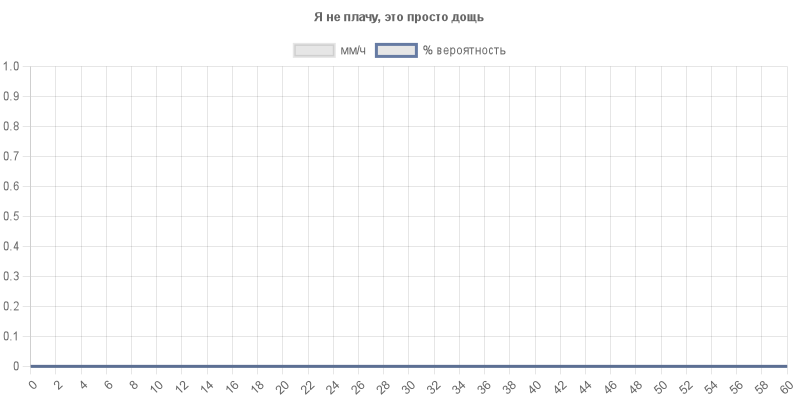
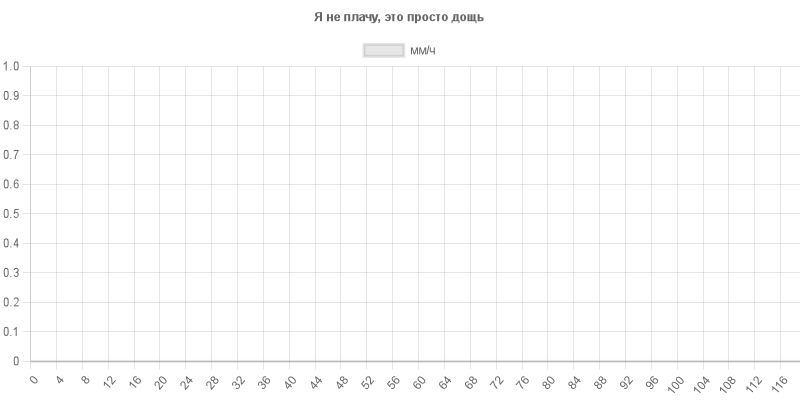
minutecast chart

diff --git a/jisao-functions.js b/jisao-functions.js
@@ -31,6 +31,31 @@ class APILimits {
   }
 }
 
+//datatype for minute forecasts
+class Jisao {
+  constructor(
+    summaryPrecipitation = "",
+    isPrecipitation = true,
+    minuteSummary = [],
+    precipAccuArr = [],
+    forecast12hr = [],
+    precipIntensity = [],
+    precipType = [],
+    averagePrecip = 0,
+    error = { status: false, description: "" }
+  ) {
+    this.summaryPrecipitation = summaryPrecipitation;
+    this.isPrecipitation = isPrecipitation;
+    this.minuteSummary = minuteSummary;
+    this.precipAccuArr = precipAccuArr;
+    this.forecast12hr = forecast12hr;
+    this.precipIntensity = precipIntensity;
+    this.precipType = precipType;
+    this.averagePrecip = averagePrecip;
+    this.error = error;
+  }
+}
+
 let jisaoBot;
 function setBotObject(botObject) {
   jisaoBot = botObject;
@@ -107,16 +132,6 @@ function create1hrForecastObject(
   return forecast1hr;
 }
 
-//datatype for minute forecasts
-function createMinuteObj() {
-  const jisaoMinute = {
-    summaryPrecipitation: "",
-    minuteSummary: [],
-    forecast12hr: [],
-    error: { status: false, description: "" },
-  };
-}
-
 //reads limits from local file, or returns a default object if there is none
 function getLimits() {
   const limits = new APILimits();
@@ -189,7 +204,7 @@ function getMinuteDescription(userData, minuteReply) {
     const hour2 = minuteReply.forecast12hr[1];
 
     let precipString = "подробностей не дали";
-    if (minuteReply.minuteSummary.length > 0) {
+    /* if (minuteReply.minuteSummary.length > 0) {
       let precipArr = Array(12).fill(minuteReply.minuteSummary[0].type);
 
       //filling 10-minutes blocks with precipitation types
@@ -202,11 +217,14 @@ function getMinuteDescription(userData, minuteReply) {
         }
       }
       precipString = precipArr.join("");
-    }
+    } */
 
+    precipString = minuteReply.precipAccuArr.join("");
+
+    //emoji line ${precipString}\n is replaced with charts
     forecast2hr = `В ${
       userData.locationName
-    } ${minuteReply.summaryPrecipitation.toLowerCase()}\n${precipString}\n\n`;
+    } ${minuteReply.summaryPrecipitation.toLowerCase()}\n\n`;
     forecast2hr += `В этом часу\n🌡 ${hour1.temperature}°C, ощущается как ${hour1.realfeel}°C\n`;
     forecast2hr += `💨 ветер ${hour1.wind}м/с c порывами до ${hour1.windgust}м/с`;
     forecast2hr +=
@@ -309,14 +327,29 @@ async function getForecast2hr(userID) {
 
       if (forecastMinute.Summary.Phrase) {
         jisaoMinute.summaryPrecipitation = forecastMinute.Summary.Phrase;
+        //getting line of emojis 🌂🌂🌂💧💧💧💧🌂🌂🌂🌂🌂.
+        //It's turned off by now in getMinuteDescription and replaced with charts and digital types
         if (forecastMinute.Summaries.length > 0) {
           for (let sum of forecastMinute.Summaries) {
-            const type = getMinuteEmoji(sum.TypeId);
+            //const type = getMinuteEmoji(sum.TypeId); <-------
+            const type = sum.TypeId === null ? 0 : sum.TypeId;
             jisaoMinute.minuteSummary.push({
               startMinute: sum.StartMinute,
               type: type,
             });
           }
+        }
+        if (jisaoMinute.minuteSummary.length > 0) {
+          let precipArr = Array(120).fill(jisaoMinute.minuteSummary[0].type);
+
+          //filling 10-minutes blocks with precipitation types
+          for (let i = 1; i < jisaoMinute.minuteSummary.length; i++) {
+            let minutesNext = jisaoMinute.minuteSummary[i].startMinute;
+            for (let j = minutesNext; j < precipArr.length; j++) {
+              precipArr[j] = jisaoMinute.minuteSummary[i].type;
+            }
+          }
+          jisaoMinute.precipAccuArr = precipArr;
         }
       } else {
         jisaoMinute.error.status = true;
@@ -561,7 +594,7 @@ async function getChart(filename, inputData = {}) {
       {
         type: "line",
         label: "мм/ч",
-        data: inputData.precipIntensity60,
+        data: inputData.precipIntensity,
         fill: {
           target: "origin",
           above: "rgb(134, 162, 214)", // Area will be red above the origin
@@ -570,7 +603,7 @@ async function getChart(filename, inputData = {}) {
         tension: 0.1,
         pointRadius: 0,
       },
-      {
+      /* {
         type: "line",
         label: "% вероятность",
         data: inputData.precipProbability60,
@@ -578,7 +611,7 @@ async function getChart(filename, inputData = {}) {
         borderColor: "rgb(102, 123, 163)",
         tension: 0.1,
         pointRadius: 0,
-      },
+      }, */
     ],
   };
 
@@ -608,15 +641,11 @@ async function getChart(filename, inputData = {}) {
 async function getPirateForecast2hr(userID) {
   const userData = getUser(userID);
 
-  const jisaoMinute = {
-    summaryPrecipitation: "чот пошло не так",
-    minuteSummary: [],
-    forecast12hr: [],
-    error: { status: false, description: "" },
-  };
+  const jisaoMinute = new Jisao();
 
   if (!userData) {
-    jisaoMinute.summaryPrecipitation = `user ${userID} doesn't exist`;
+    jisaoMinute.error.description = `user ${userID} doesn't exist`;
+    jisaoMinute.error.status = true;
     return jisaoMinute;
   }
 
@@ -631,9 +660,11 @@ async function getPirateForecast2hr(userID) {
   let data = { precipIntensity60: [], precipProbability60: [], minutes: [] };
   try {
     if (isLimitPirateReached) {
-      jisaoMinute.summaryPrecipitation = `лимит пиратских запросов тогось, будем плотить?`;
-    } else { //hardcoded location for now
-      const pirateQuery = `https://api.pirateweather.net/forecast/${pirateWeatherKey}/48.137154,11.576124?units=si&exclude=[daily,alerts]`;
+      jisaoMinute.error.description = `лимит пиратских запросов тогось, будем плотить?`;
+      jisaoMinute.error.status = true;
+    } else {
+      //hardcoded location for now
+      const pirateQuery = `https://api.pirateweather.net/forecast/${pirateWeatherKey}/${userData.location.latitude},${userData.location.longitude}?units=si&exclude=[daily,alerts]`;
       const res = await fetch(pirateQuery);
       const response = await res.json();
 
@@ -645,18 +676,30 @@ async function getPirateForecast2hr(userID) {
 
       setLimits(limits);
 
-      jisaoMinute.summaryPrecipitation = response.minutely.summary;
+      //jisaoMinute.summaryPrecipitation = response.minutely.summary;
       data = response.minutely.data.reduce(
         (acc, item, ind) => {
           acc.precipIntensity60.push(item.precipIntensity);
           acc.precipProbability60.push(item.precipProbability);
+          acc.precipType60.push(item.precipType); //rain, snow or sleet; otherwise none
           acc.minutes.push(ind);
           return acc;
         },
-        { precipIntensity60: [], precipProbability60: [], minutes: [] }
+        {
+          precipIntensity60: [],
+          precipProbability60: [],
+          minutes: [],
+          precipType60: [],
+        }
       );
-      console.log(JSON.stringify(data));
-      await getChart(`chart.png`, data);
+      //console.log(JSON.stringify(data));
+
+      jisaoMinute.precipIntensity = data.precipIntensity60;
+      jisaoMinute.precipType = data.precipType60;
+
+      jisaoMinute.averagePrecip =
+        data.precipIntensity60.reduce((acc, item) => (acc += item), 0) /
+        data.precipIntensity60.length;
     }
   } catch (err) {
     console.log(err);

diff --git a/jisao-bot.js b/jisao-bot.js
@@ -122,6 +122,13 @@ jisaoBot.command("weather2hr", async (ctx) => {
       throw new Error(minuteReply.error.description);
     }
 
+    const { precipIntensity, precipType, averagePrecip } =
+      await getPirateForecast2hr(userID);
+
+    minuteReply.precipIntensity = precipIntensity;
+    minuteReply.precipType = precipType;
+    minuteReply.averagePrecip = averagePrecip;
+
     let userData;
     if (!localStorage.getItem(`${userID}`)) {
       console.log(`weather2hr: user ${userID} doesn't exist`);
@@ -135,7 +142,62 @@ jisaoBot.command("weather2hr", async (ctx) => {
 
     let forecast2hr = getMinuteDescription(userData, minuteReply);
 
-    await ctx.reply(forecast2hr);
+    //await ctx.reply(forecast2hr);
+
+    //forging data
+    //get 120 min from accuweather for rain(true\false), and extend 60 min of pirate(mm\hr) with average
+    let data = { precipIntensity: [], minutes: [] };
+    data.precipIntensity = minuteReply.precipIntensity;
+    data.minutes = new Array(120).fill(0).reduce((acc, item, ind) => {
+      acc.push(ind);
+      if (data.precipIntensity[ind] === undefined) {
+        data.precipIntensity.push(minuteReply.forecast12hr[1].rain);
+      }
+      return acc;
+    }, []);
+
+    console.log(`accuweather: ${minuteReply.precipAccuArr}`);
+    console.log(`pirate precipIntensity: ${data.precipIntensity}`);
+    console.log(
+      `forecast12hr[0]: ${JSON.stringify(minuteReply.forecast12hr[0])}`
+    );
+    console.log(
+      `forecast12hr[1]: ${JSON.stringify(minuteReply.forecast12hr[1])}`
+    );
+    //filtering out pirate weather minute values, based on accuweather 0\1\..
+    for (let i = 0; i < data.precipIntensity.length; i++) {
+      if (minuteReply.precipAccuArr[i]) {
+        if (data.precipIntensity[i] === 0) {
+          let hour = Math.floor(i / 60);
+          console.log(`hour: ${hour}`);
+          if (!minuteReply.forecast12hr[hour].rain) {
+            data.precipIntensity[i] = minuteReply.averagePrecip;
+          } else {
+            data.precipIntensity[i] = minuteReply.forecast12hr[hour].rain;
+          }
+        }
+      } else {
+        data.precipIntensity[i] = 0;
+      }
+    }
+    console.log(`finally: ${data.precipIntensity}`);
+
+    if (minuteReply.averagePrecip > -0.02) {
+      await getChart(`minute.png`, data);
+      const chartFilename = `temp-images/minute.png`;
+
+      fs.access(chartFilename, fs.constants.F_OK, async (err) => {
+        if (err) {
+          console.error(`${filePath} does not exist`);
+          ctx.reply(`график тогось`);
+        } else {
+          await ctx.replyWithPhoto(
+            { source: chartFilename },
+            { caption: forecast2hr }
+          );
+        }
+      });
+    }
     /* //post limits as well
     await ctx.reply(
       `||limit: ${minuteReply.limitMinute.limitRemain}/${minuteReply.limitMinute.limitTotal}||`,
@@ -260,7 +322,7 @@ jisaoBot.on(message("location"), async (ctx) => {
 });
 
 //reacts on text
-jisaoBot.on(message(`text`), async (ctx) => {
+/* jisaoBot.on(message(`text`), async (ctx) => {
   await ctx.reply(
     `ctx.from.id: ${ctx.from.id}, chat:${ctx.chat.id},\nctx: ${JSON.stringify(
       ctx.update,
@@ -272,15 +334,17 @@ jisaoBot.on(message(`text`), async (ctx) => {
   ctx.reply(jisMin.summaryPrecipitation);
 
   const chartFilename = `temp-images/chart.png`;
-  fs.access(chartFilename, fs.constants.F_OK, async (err) => {
-    if (err) {
-      console.error(`${filePath} does not exist`);
-      ctx.reply(`график тогось`);
-    } else {
-      await ctx.replyWithPhoto({ source: chartFilename });
-    }
-  });
-});
+  if (jisMin.isPrecipitation) {
+    fs.access(chartFilename, fs.constants.F_OK, async (err) => {
+      if (err) {
+        console.error(`${filePath} does not exist`);
+        ctx.reply(`график тогось`);
+      } else {
+        await ctx.replyWithPhoto({ source: chartFilename });
+      }
+    });
+  }
+}); */
 
 //---------------CRON-----------------
 //------------------------------------
